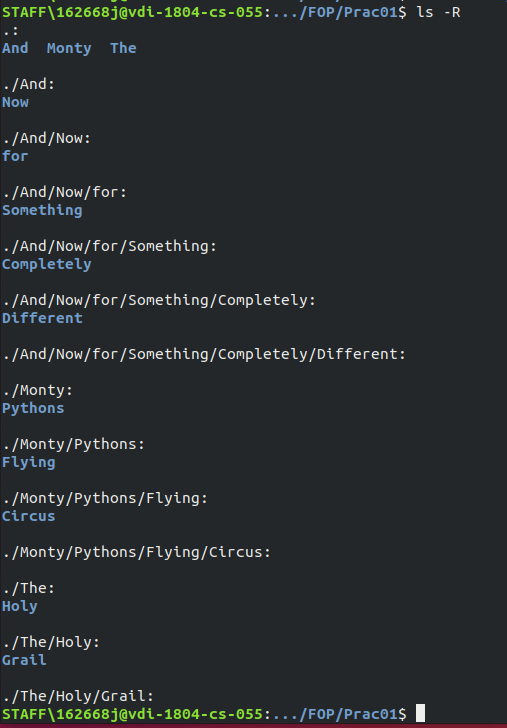
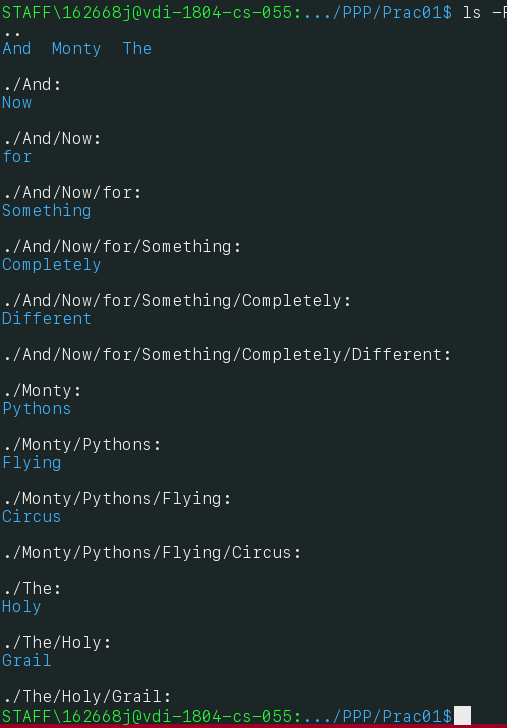
site deploy
Auto-generated via `{sandpaper}`
Source  : 6b07de5afbb1704f07240218e0993575b4ed48de
Branch  : md-outputs
Author  : GitHub Actions <actions@github.com>
Time    : 2026-08-14 00:51:32 +0000
Message : markdown source builds

Auto-generated via `{sandpaper}`
Source  : 4ed3ba89885f87769e2f29c9f59f3ec02eff0ddd
Branch  : main
Author  : Your Name <your.email@example.com>
Time    : 2026-08-14 00:49:56 +0000
Message : Replace FOP directory screenshot with PPP

diff --git a/aio.html b/aio.html
@@ -2762,7 +2762,7 @@ conveying how repat doses of drug accumulate and compund.</p>
   Single curve based on a parabola
   </h4>
 </button>
-<div id="collapseHint1" class="accordion-collapse collapse" aria-labelledby="headingHint1" data-bs-parent="#accordionHint1">
+<div id="collapseHint1" class="accordion-collapse collapse" data-bs-parent="#accordionHint1" aria-labelledby="headingHint1">
 <div class="accordion-body">
 <p>Consider how you might generate a curve. Perhaps an upside-down
 parabola?</p>
@@ -2792,7 +2792,7 @@ wrong.</p>
   Single curve based on formula for a circle
   </h4>
 </button>
-<div id="collapseHint2" class="accordion-collapse collapse" aria-labelledby="headingHint2" data-bs-parent="#accordionHint2">
+<div id="collapseHint2" class="accordion-collapse collapse" data-bs-parent="#accordionHint2" aria-labelledby="headingHint2">
 <div class="accordion-body">
 <p>A circle gives a more realistic curve… so we can use the
 <code>x**2 + y**2 = r**2</code> formula to find points on the edge of a
@@ -2821,7 +2821,7 @@ circle.</p>
   Repeating the curves in reducing sizes, and progressive colours
   </h4>
 </button>
-<div id="collapseHint3" class="accordion-collapse collapse" aria-labelledby="headingHint3" data-bs-parent="#accordionHint3">
+<div id="collapseHint3" class="accordion-collapse collapse" data-bs-parent="#accordionHint3" aria-labelledby="headingHint3">
 <div class="accordion-body">
 <p>We can use the loop index to map to a particular colour, and also to
 change the radius of the circle.</p>
@@ -2859,7 +2859,7 @@ change the radius of the circle.</p>
   Storing values in arrays
   </h4>
 </button>
-<div id="collapseHint4" class="accordion-collapse collapse" aria-labelledby="headingHint4" data-bs-parent="#accordionHint4">
+<div id="collapseHint4" class="accordion-collapse collapse" data-bs-parent="#accordionHint4" aria-labelledby="headingHint4">
 <div class="accordion-body">
 <div class="codewrapper sourceCode" id="cb7">
 <h3 class="code-label">PYTHON<i aria-hidden="true" data-feather="chevron-left"></i><i aria-hidden="true" data-feather="chevron-right"></i>

diff --git a/instructor/aio.html b/instructor/aio.html
@@ -2764,7 +2764,7 @@ conveying how repat doses of drug accumulate and compund.</p>
   Single curve based on a parabola
   </h4>
 </button>
-<div id="collapseHint1" class="accordion-collapse collapse" aria-labelledby="headingHint1" data-bs-parent="#accordionHint1">
+<div id="collapseHint1" class="accordion-collapse collapse" data-bs-parent="#accordionHint1" aria-labelledby="headingHint1">
 <div class="accordion-body">
 <p>Consider how you might generate a curve. Perhaps an upside-down
 parabola?</p>
@@ -2794,7 +2794,7 @@ wrong.</p>
   Single curve based on formula for a circle
   </h4>
 </button>
-<div id="collapseHint2" class="accordion-collapse collapse" aria-labelledby="headingHint2" data-bs-parent="#accordionHint2">
+<div id="collapseHint2" class="accordion-collapse collapse" data-bs-parent="#accordionHint2" aria-labelledby="headingHint2">
 <div class="accordion-body">
 <p>A circle gives a more realistic curve… so we can use the
 <code>x**2 + y**2 = r**2</code> formula to find points on the edge of a
@@ -2823,7 +2823,7 @@ circle.</p>
   Repeating the curves in reducing sizes, and progressive colours
   </h4>
 </button>
-<div id="collapseHint3" class="accordion-collapse collapse" aria-labelledby="headingHint3" data-bs-parent="#accordionHint3">
+<div id="collapseHint3" class="accordion-collapse collapse" data-bs-parent="#accordionHint3" aria-labelledby="headingHint3">
 <div class="accordion-body">
 <p>We can use the loop index to map to a particular colour, and also to
 change the radius of the circle.</p>
@@ -2861,7 +2861,7 @@ change the radius of the circle.</p>
   Storing values in arrays
   </h4>
 </button>
-<div id="collapseHint4" class="accordion-collapse collapse" aria-labelledby="headingHint4" data-bs-parent="#accordionHint4">
+<div id="collapseHint4" class="accordion-collapse collapse" data-bs-parent="#accordionHint4" aria-labelledby="headingHint4">
 <div class="accordion-body">
 <div class="codewrapper sourceCode" id="cb7">
 <h3 class="code-label">PYTHON<i aria-hidden="true" data-feather="chevron-left"></i><i aria-hidden="true" data-feather="chevron-right"></i>

diff --git a/instructor/prac03.html b/instructor/prac03.html
@@ -654,7 +654,7 @@ conveying how repat doses of drug accumulate and compund.</p>
   Single curve based on a parabola
   </h4>
 </button>
-<div id="collapseHint1" class="accordion-collapse collapse" aria-labelledby="headingHint1" data-bs-parent="#accordionHint1">
+<div id="collapseHint1" class="accordion-collapse collapse" data-bs-parent="#accordionHint1" aria-labelledby="headingHint1">
 <div class="accordion-body">
 <p>Consider how you might generate a curve. Perhaps an upside-down
 parabola?</p>
@@ -684,7 +684,7 @@ wrong.</p>
   Single curve based on formula for a circle
   </h4>
 </button>
-<div id="collapseHint2" class="accordion-collapse collapse" aria-labelledby="headingHint2" data-bs-parent="#accordionHint2">
+<div id="collapseHint2" class="accordion-collapse collapse" data-bs-parent="#accordionHint2" aria-labelledby="headingHint2">
 <div class="accordion-body">
 <p>A circle gives a more realistic curve… so we can use the
 <code>x**2 + y**2 = r**2</code> formula to find points on the edge of a
@@ -713,7 +713,7 @@ circle.</p>
   Repeating the curves in reducing sizes, and progressive colours
   </h4>
 </button>
-<div id="collapseHint3" class="accordion-collapse collapse" aria-labelledby="headingHint3" data-bs-parent="#accordionHint3">
+<div id="collapseHint3" class="accordion-collapse collapse" data-bs-parent="#accordionHint3" aria-labelledby="headingHint3">
 <div class="accordion-body">
 <p>We can use the loop index to map to a particular colour, and also to
 change the radius of the circle.</p>
@@ -751,7 +751,7 @@ change the radius of the circle.</p>
   Storing values in arrays
   </h4>
 </button>
-<div id="collapseHint4" class="accordion-collapse collapse" aria-labelledby="headingHint4" data-bs-parent="#accordionHint4">
+<div id="collapseHint4" class="accordion-collapse collapse" data-bs-parent="#accordionHint4" aria-labelledby="headingHint4">
 <div class="accordion-body">
 <div class="codewrapper sourceCode" id="cb7">
 <h3 class="code-label">PYTHON<i aria-hidden="true" data-feather="chevron-left"></i><i aria-hidden="true" data-feather="chevron-right"></i>

diff --git a/prac03.html b/prac03.html
@@ -652,7 +652,7 @@ conveying how repat doses of drug accumulate and compund.</p>
   Single curve based on a parabola
   </h4>
 </button>
-<div id="collapseHint1" class="accordion-collapse collapse" aria-labelledby="headingHint1" data-bs-parent="#accordionHint1">
+<div id="collapseHint1" class="accordion-collapse collapse" data-bs-parent="#accordionHint1" aria-labelledby="headingHint1">
 <div class="accordion-body">
 <p>Consider how you might generate a curve. Perhaps an upside-down
 parabola?</p>
@@ -682,7 +682,7 @@ wrong.</p>
   Single curve based on formula for a circle
   </h4>
 </button>
-<div id="collapseHint2" class="accordion-collapse collapse" aria-labelledby="headingHint2" data-bs-parent="#accordionHint2">
+<div id="collapseHint2" class="accordion-collapse collapse" data-bs-parent="#accordionHint2" aria-labelledby="headingHint2">
 <div class="accordion-body">
 <p>A circle gives a more realistic curve… so we can use the
 <code>x**2 + y**2 = r**2</code> formula to find points on the edge of a
@@ -711,7 +711,7 @@ circle.</p>
   Repeating the curves in reducing sizes, and progressive colours
   </h4>
 </button>
-<div id="collapseHint3" class="accordion-collapse collapse" aria-labelledby="headingHint3" data-bs-parent="#accordionHint3">
+<div id="collapseHint3" class="accordion-collapse collapse" data-bs-parent="#accordionHint3" aria-labelledby="headingHint3">
 <div class="accordion-body">
 <p>We can use the loop index to map to a particular colour, and also to
 change the radius of the circle.</p>
@@ -749,7 +749,7 @@ change the radius of the circle.</p>
   Storing values in arrays
   </h4>
 </button>
-<div id="collapseHint4" class="accordion-collapse collapse" aria-labelledby="headingHint4" data-bs-parent="#accordionHint4">
+<div id="collapseHint4" class="accordion-collapse collapse" data-bs-parent="#accordionHint4" aria-labelledby="headingHint4">
 <div class="accordion-body">
 <div class="codewrapper sourceCode" id="cb7">
 <h3 class="code-label">PYTHON<i aria-hidden="true" data-feather="chevron-left"></i><i aria-hidden="true" data-feather="chevron-right"></i>

diff --git a/index.html b/index.html
@@ -424,7 +424,7 @@ Internet. See below for options…</p>
   Windows
   </h4>
 </button>
-<div id="collapseSolution1" class="accordion-collapse collapse" data-bs-parent="#accordionSolution1" aria-labelledby="headingSolution1">
+<div id="collapseSolution1" class="accordion-collapse collapse" aria-labelledby="headingSolution1" data-bs-parent="#accordionSolution1">
 <div class="accordion-body">
 <p>You will need a terminal emulator - an application that looks and
 works like the termainl in Linux. We recommend Gitbash, but you have
@@ -469,7 +469,7 @@ Distribution</a> - a curated set of Python tools</li>
   MacOS
   </h4>
 </button>
-<div id="collapseSolution2" class="accordion-collapse collapse" data-bs-parent="#accordionSolution2" aria-labelledby="headingSolution2">
+<div id="collapseSolution2" class="accordion-collapse collapse" aria-labelledby="headingSolution2" data-bs-parent="#accordionSolution2">
 <div class="accordion-body">
 <p>Use Terminal.app (type <code>terminal</code> in search/spotlight) and
 check to see that you have python installed, by typing
@@ -492,7 +492,7 @@ Distribution</a> - a curated set of Python tools</li>
   Linux
   </h4>
 </button>
-<div id="collapseSolution3" class="accordion-collapse collapse" data-bs-parent="#accordionSolution3" aria-labelledby="headingSolution3">
+<div id="collapseSolution3" class="accordion-collapse collapse" aria-labelledby="headingSolution3" data-bs-parent="#accordionSolution3">
 <div class="accordion-body">
 <p>Use Terminal and check to see that you have python installed, by
 typing <code>python</code> or <code>python3</code>.</p>

diff --git a/instructor/index.html b/instructor/index.html
@@ -578,7 +578,7 @@ Internet. See below for options…</p>
   Windows
   </h4>
 </button>
-<div id="collapseSolution1" class="accordion-collapse collapse" data-bs-parent="#accordionSolution1" aria-labelledby="headingSolution1">
+<div id="collapseSolution1" class="accordion-collapse collapse" aria-labelledby="headingSolution1" data-bs-parent="#accordionSolution1">
 <div class="accordion-body">
 <p>You will need a terminal emulator - an application that looks and
 works like the termainl in Linux. We recommend Gitbash, but you have
@@ -623,7 +623,7 @@ Distribution</a> - a curated set of Python tools</li>
   MacOS
   </h4>
 </button>
-<div id="collapseSolution2" class="accordion-collapse collapse" data-bs-parent="#accordionSolution2" aria-labelledby="headingSolution2">
+<div id="collapseSolution2" class="accordion-collapse collapse" aria-labelledby="headingSolution2" data-bs-parent="#accordionSolution2">
 <div class="accordion-body">
 <p>Use Terminal.app (type <code>terminal</code> in search/spotlight) and
 check to see that you have python installed, by typing
@@ -646,7 +646,7 @@ Distribution</a> - a curated set of Python tools</li>
   Linux
   </h4>
 </button>
-<div id="collapseSolution3" class="accordion-collapse collapse" data-bs-parent="#accordionSolution3" aria-labelledby="headingSolution3">
+<div id="collapseSolution3" class="accordion-collapse collapse" aria-labelledby="headingSolution3" data-bs-parent="#accordionSolution3">
 <div class="accordion-body">
 <p>Use Terminal and check to see that you have python installed, by
 typing <code>python</code> or <code>python3</code>.</p>
